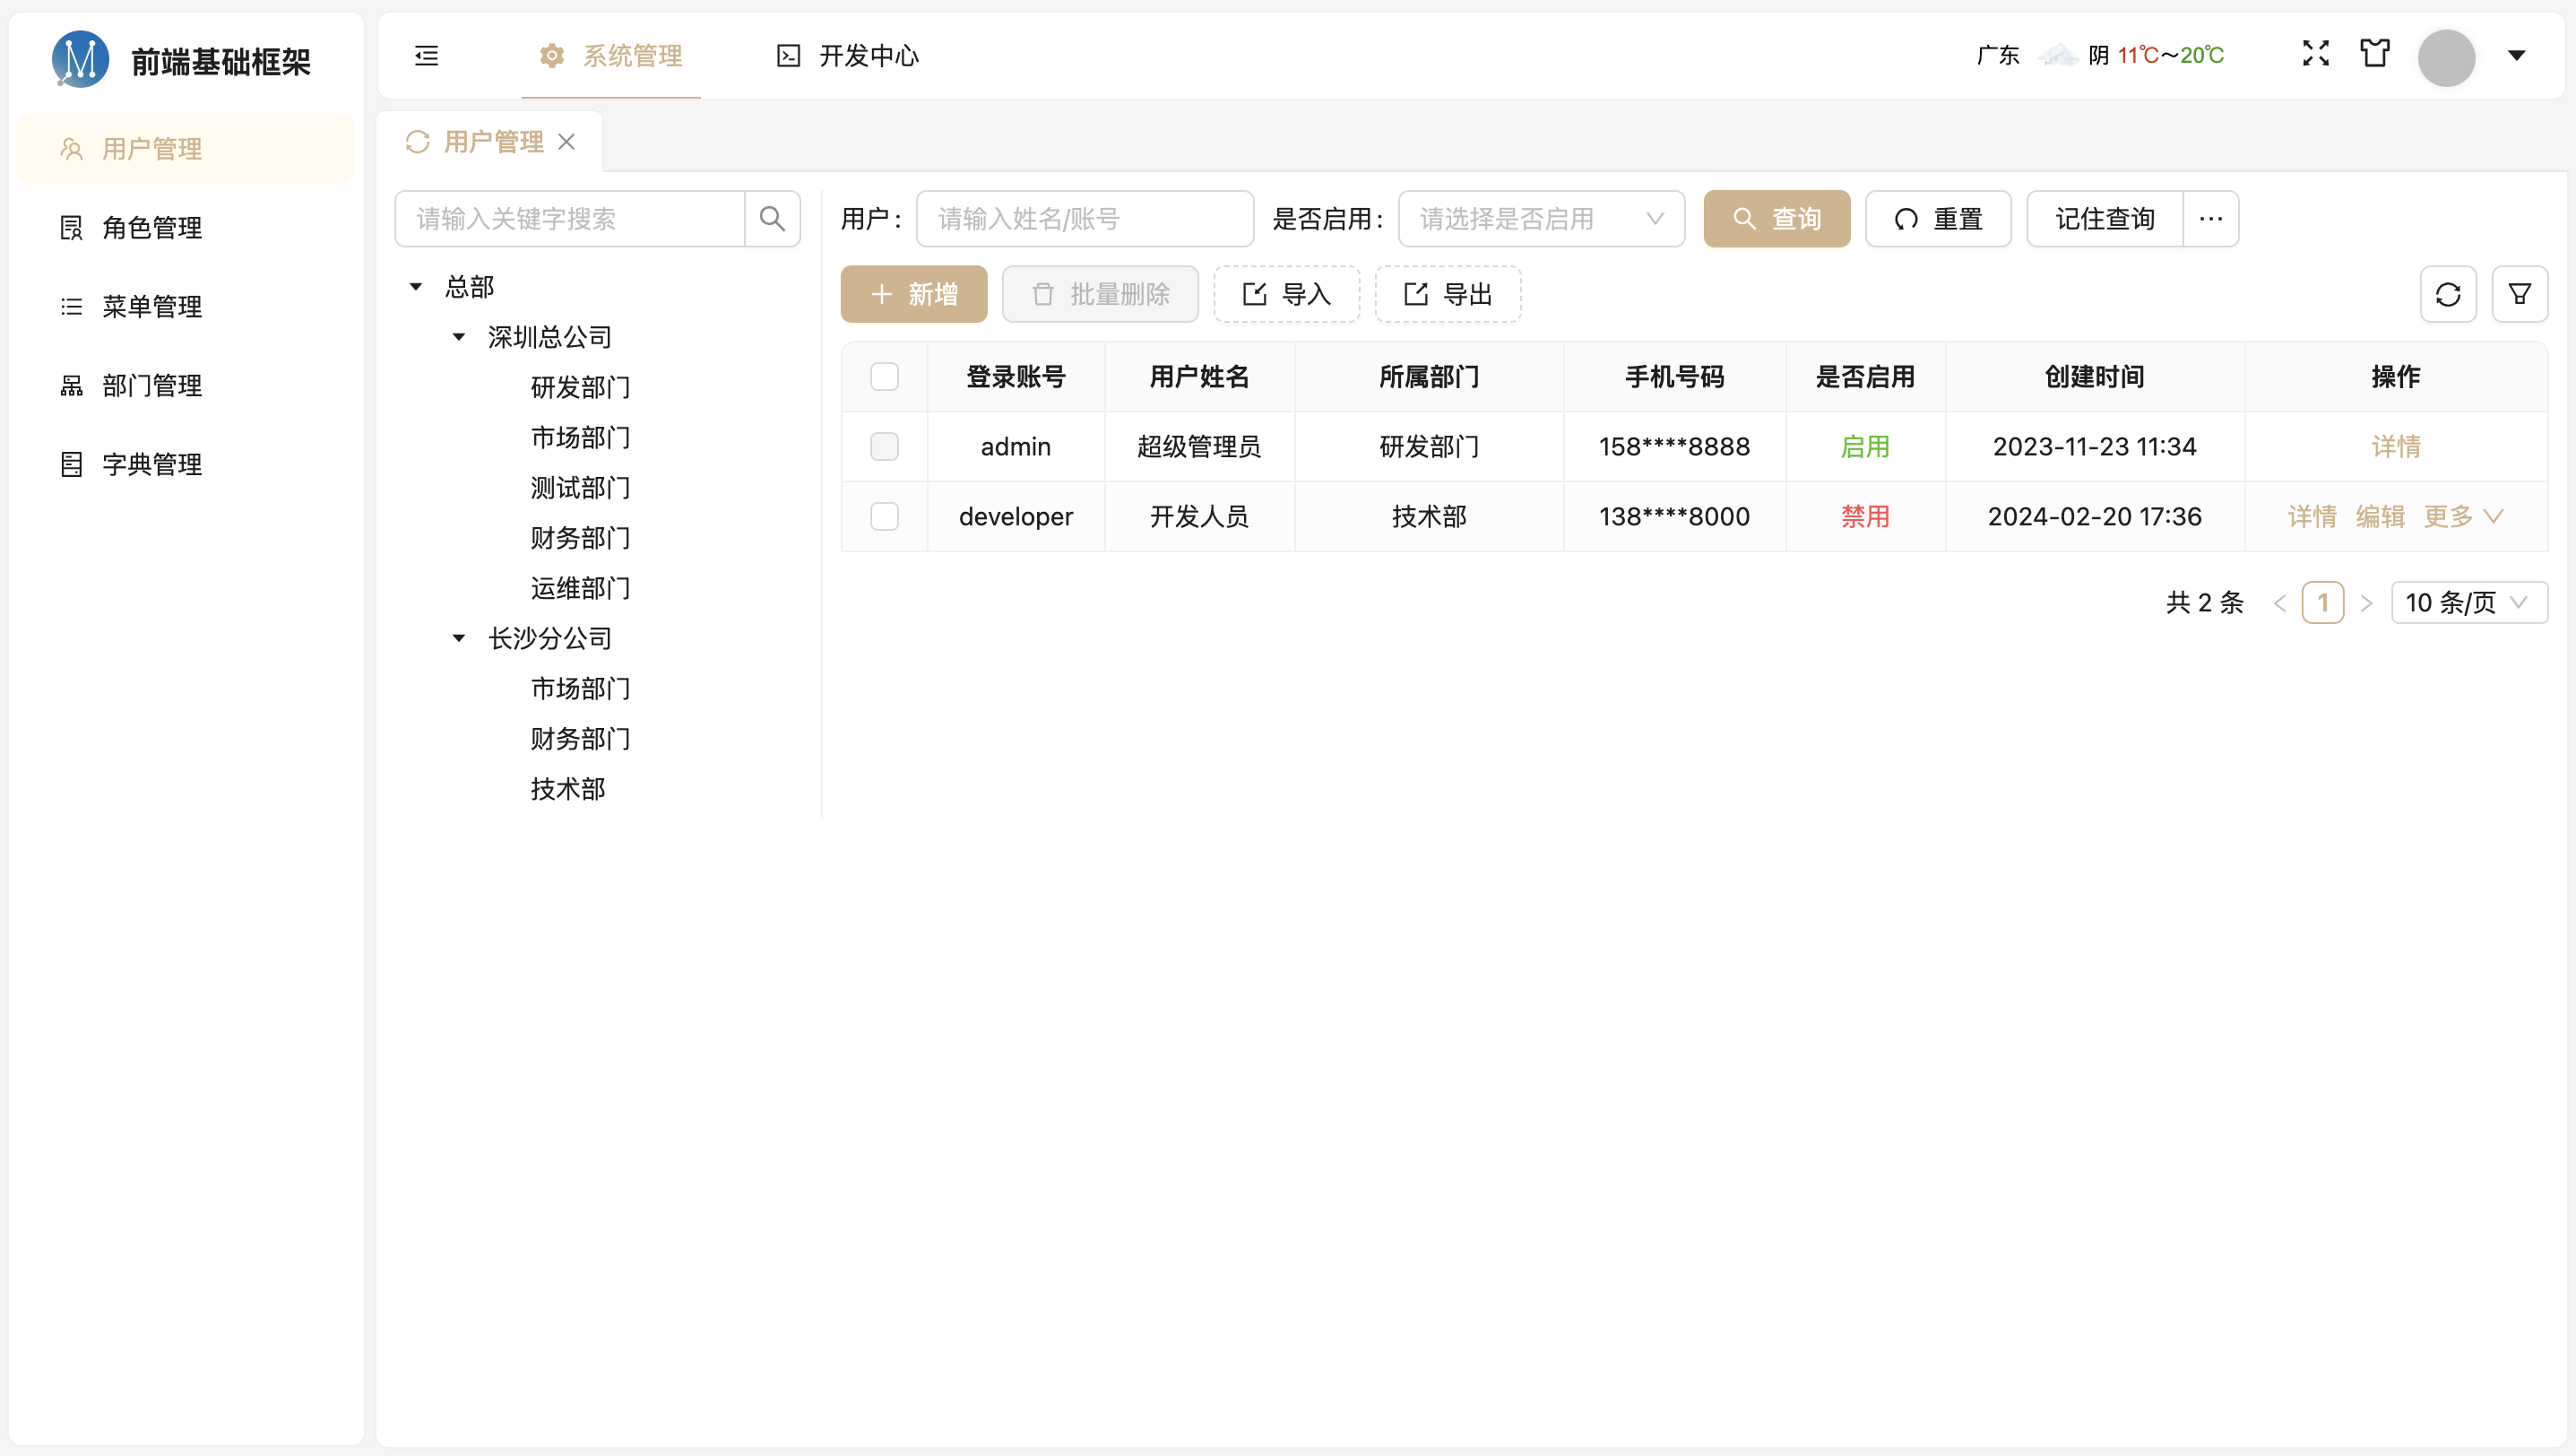
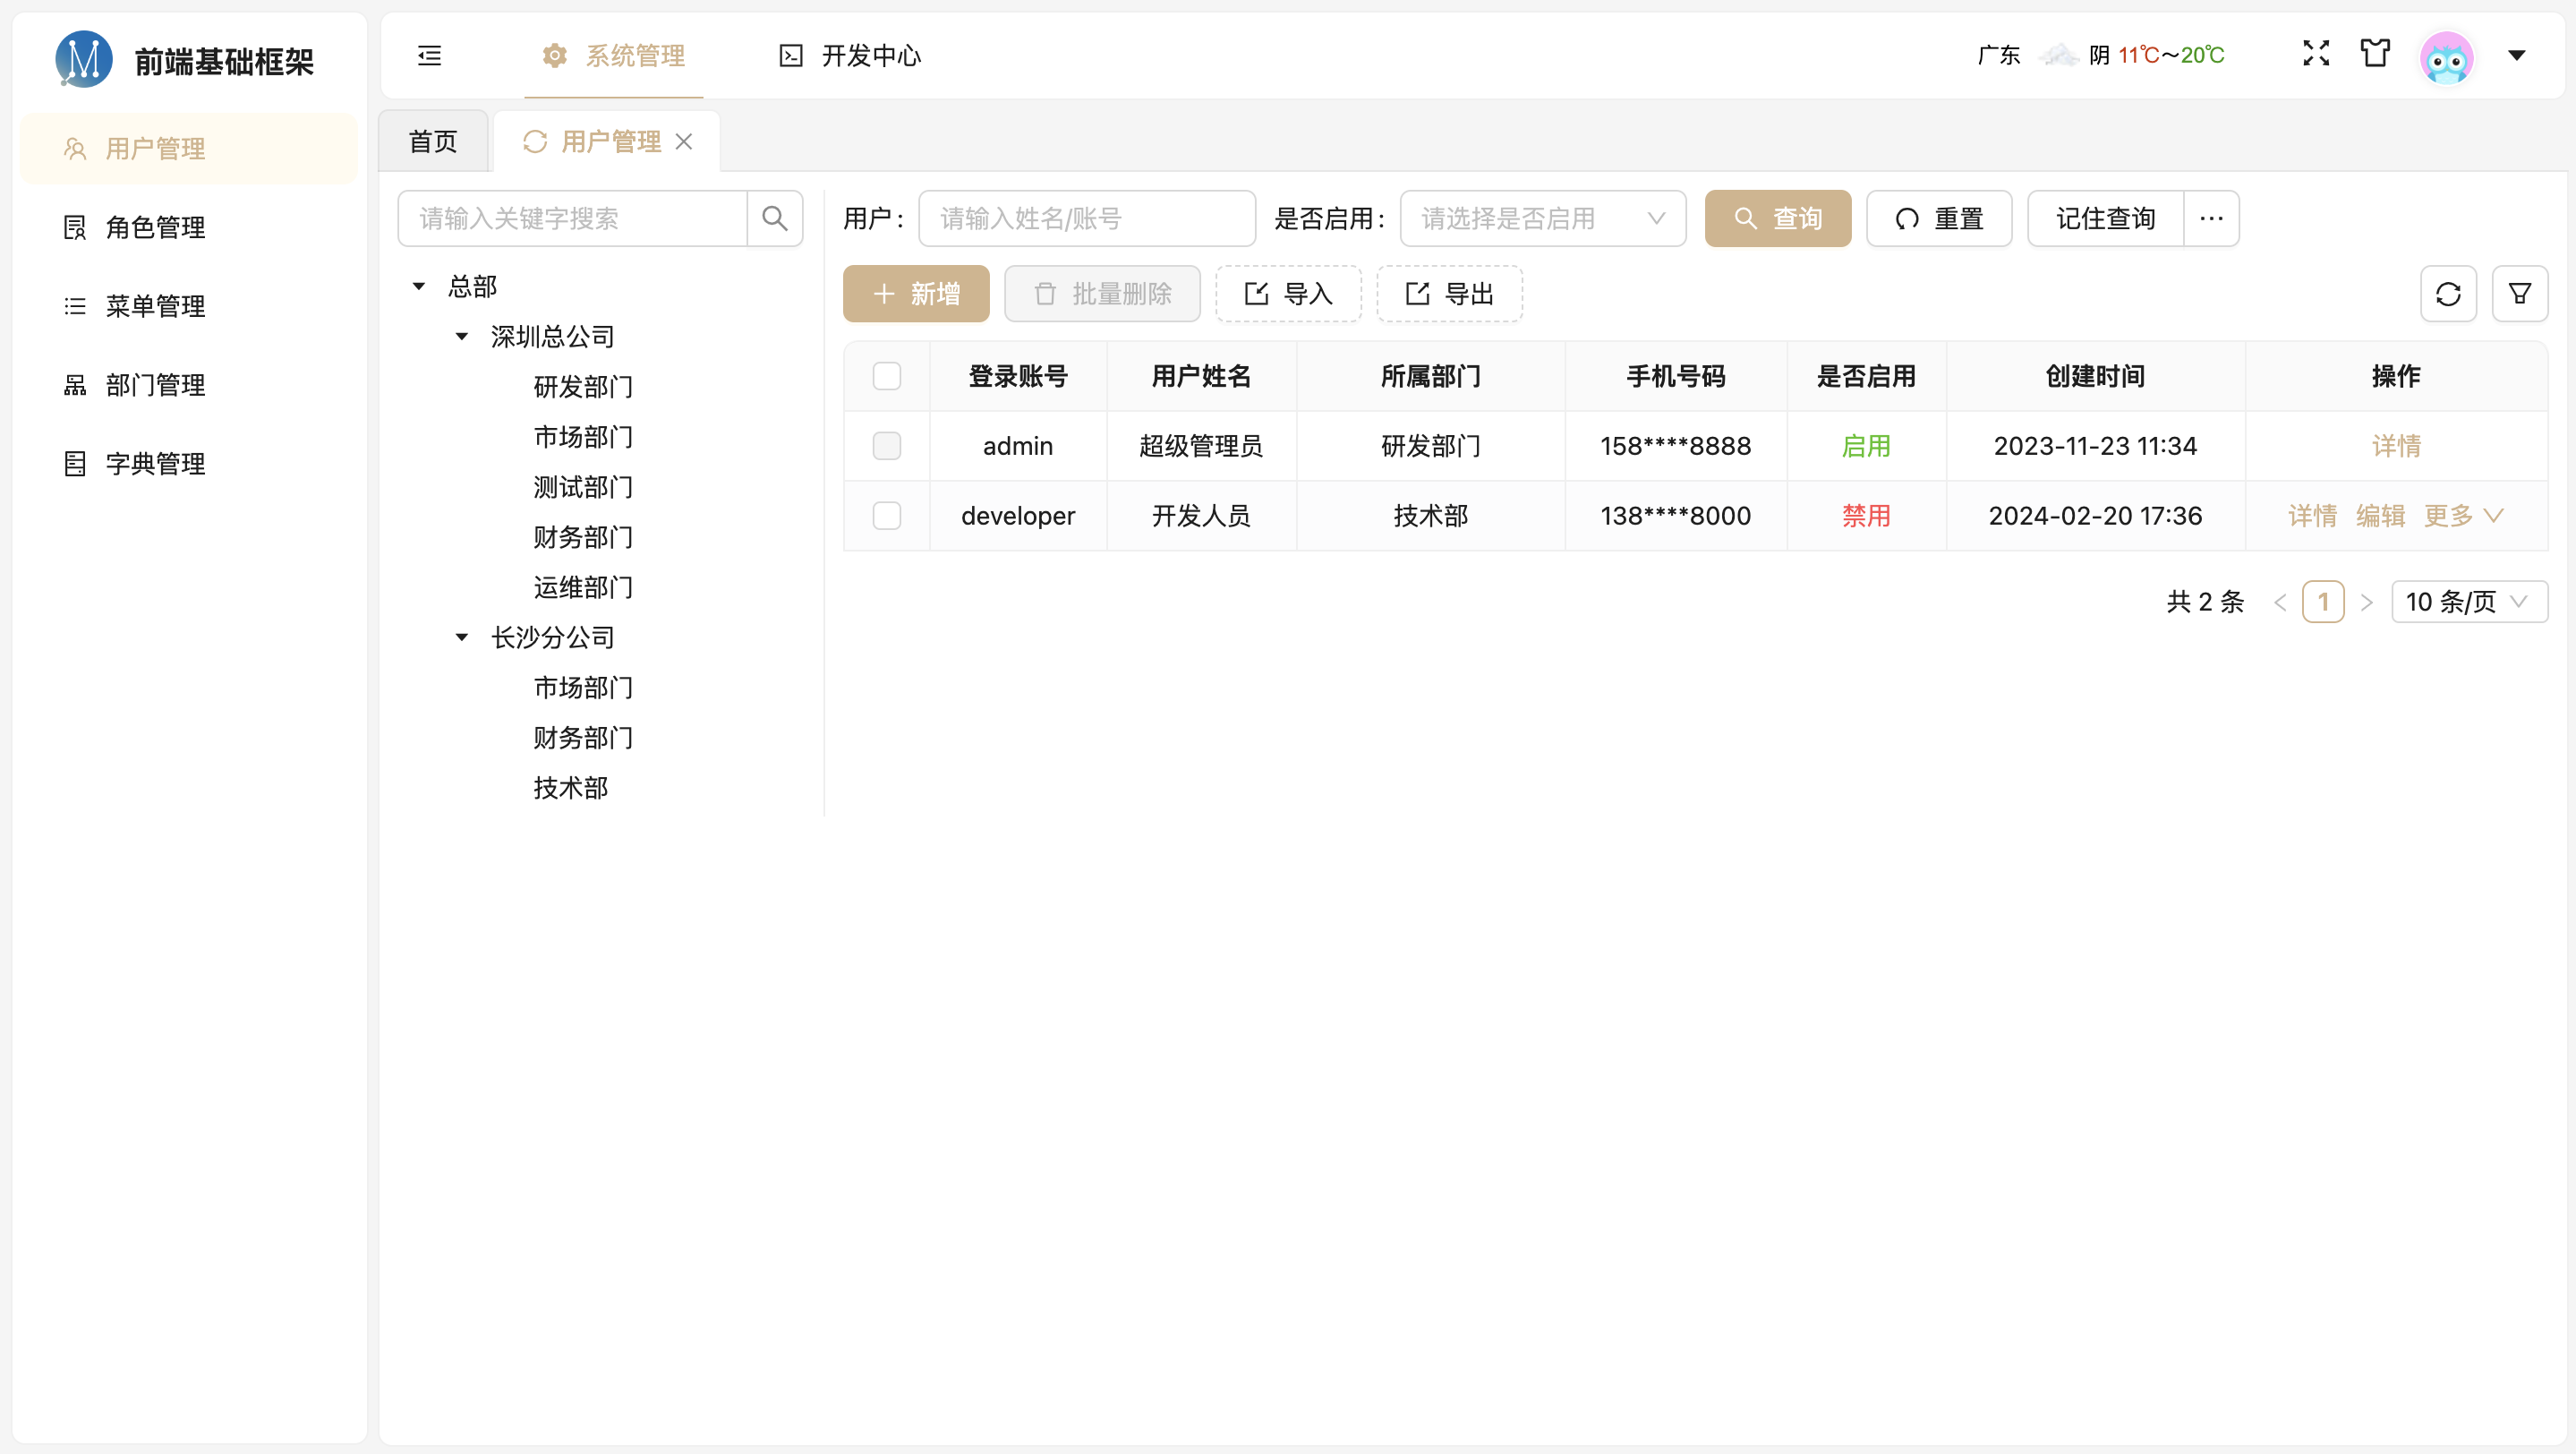
🎈 perf: 优化

diff --git a/src/views/modules/system/menu/index.vue b/src/views/modules/system/menu/index.vue
@@ -160,7 +160,7 @@ const modalConfig = computed(() => ({
         props: {
           fieldNames: { value: 'id', label: 'label' },
           remote: {
-            url: '/system/menu/treeselect',
+            url: '/system/menu/tree',
             params: {
               menuType: `${EMenuType.eDir},${EMenuType.eMenu}`,
             },